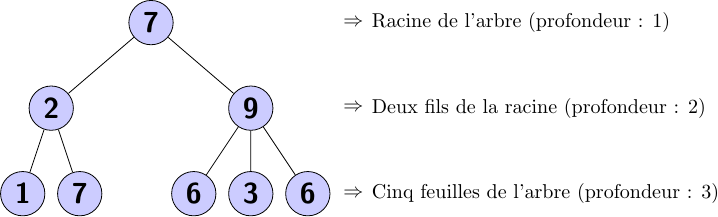
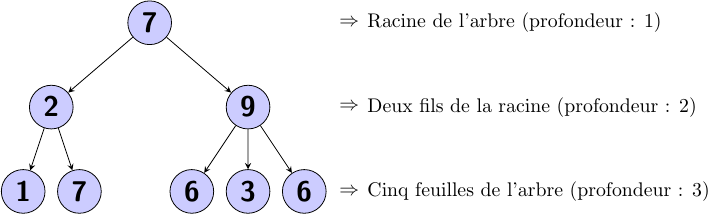
Removed useless files + Removed article about books + Small changes to the tree's example image

diff --git a/src/projets/nandtotetris.html b/src/projets/nandtotetris.html
@@ -175,7 +175,7 @@ table tr:nth-child(2n) {
 
 <a href=""><h1 id="nandtotetris">NandToTetris</h1></a>
 <p>Date du projet : f&#233;vrier 2014 &#224; avril 2014<br />
-<em>Modifi&#233; le : 11/10/2015</em></p>
+<em>Modifi&#233; le : 03/12/2015</em></p>
 <ul id="summary">
 <li><a href="#introduction">Introduction</a></li>
 <li><a href="#quest-ce-que-nandtotetris">Qu'est-ce que NandToTetris ?</a></li>
@@ -193,8 +193,7 @@ table tr:nth-child(2n) {
 <li>un <strong>compilateur</strong> complet pour le langage Jack (le langage de base de l&#8217;ordinateur).</li>
 <li>un <strong>mini-OS</strong> nous permettant d'avoir des appels syst&#232;mes basiques.</li>
 </ul>
-<p>J&#8217;ai r&#233;alis&#233; ce projet &#224; l&#8217;aide du livre <em>The Elements of Computing Systems : Building a Modern Computer from First Principles</em>, vous pouvez retrouver un court avis sur ce livre <a href="/livres.html">ici</a>.</p>
-<p>Ce livre fournit des &#233;mulateurs, et des fichiers de tests pour la cr&#233;ation de ce projet, ainsi que les explications n&#233;cessaires.</p>
+<p>J&#8217;ai r&#233;alis&#233; ce projet &#224; l&#8217;aide du livre <em>The Elements of Computing Systems : Building a Modern Computer from First Principles</em>. Ce livre fournit des &#233;mulateurs, et des fichiers de tests pour la cr&#233;ation de ce projet, ainsi que les explications n&#233;cessaires.</p>
 <h3 id="lordinateur">L'ordinateur</h3>
 <p>L'ordinateur est bas&#233; sur une architecture 16 bits de <a href="https://fr.wikipedia.org/wiki/Architecture_de_von_Neumann">von Neumann</a>, et peut accueillir un clavier et un &#233;cran de 256&#215;512 en noir et blanc.</p>
 <p>Pour la cr&#233;ation de l'ordinateur, on va donc partir de la porte logique <a href="https://fr.wikipedia.org/wiki/Fonction_NON-ET">NAND</a> qui est notre &#233;l&#233;ment de base (elle est int&#233;gr&#233;e directement dans l'&#233;mulateur ce qui nous permet de l'utiliser avec les autres &#233;l&#233;ments sans probl&#232;me). Gr&#226;ce &#224; cette porte logique, on peut en cr&#233;er d'autres comme <a href="https://fr.wikipedia.org/wiki/Fonction_ET">AND</a>, <a href="https://fr.wikipedia.org/wiki/Fonction_OU">OR</a>, <a href="https://fr.wikipedia.org/wiki/Fonction_NON">NOT</a>, etc. et &#224; partir de ces portes on peut construire l&#8217;<a href="https://fr.wikipedia.org/wiki/Unit%C3%A9_arithm%C3%A9tique_et_logique">ALU</a>. Pour la <a href="https://fr.wikipedia.org/wiki/M%C3%A9moire_vive">RAM</a> de l'ordinateur, il faut la construire &#233;tape par &#233;tape et augmenter progressivement en capacit&#233; de stockage. On commence par la construction d'un <a href="https://fr.wikipedia.org/wiki/Bascule_%28circuit_logique%29">flip-flop</a> qui nous permet de r&#233;aliser un <a href="https://fr.wikipedia.org/wiki/Bit">bit</a>, puis un registre et enfin la RAM compl&#232;te. Le <a href="https://fr.wikipedia.org/wiki/Processeur">CPU</a> vient en dernier et ach&#232;ve la cr&#233;ation de notre ordinateur.</p>

diff --git a/src/articles.html b/src/articles.html
@@ -222,10 +222,6 @@ table tr:nth-child(2n) {
 <li><a href="/prog/c/debugger.html">D&#233;bugger ses programmes</a></li>
 </ul></li>
 </ul></li>
-<li><p>Autres :</p>
-<ul>
-<li><a href="/livres.html">Livres</a></li>
-</ul></li>
 </ul>
  
       <!-- ------------ -->

diff --git a/pages/3.Projets/4.NandToTetris/nandtotetris.md b/pages/3.Projets/4.NandToTetris/nandtotetris.md
@@ -3,7 +3,7 @@ NandToTetris
 projets/
 
 Date du projet : février 2014 à avril 2014  
-*Modifié le : 11/10/2015*
+*Modifié le : 03/12/2015*
 
 ## Introduction
 
@@ -19,9 +19,7 @@ Le projet consiste donc à créer :
 - un **compilateur** complet pour le langage Jack (le langage de base de l’ordinateur).
 - un **mini-OS** nous permettant d'avoir des appels systèmes basiques.
 
-J’ai réalisé ce projet à l’aide du livre *The Elements of Computing Systems : Building a Modern Computer from First Principles*, vous pouvez retrouver un court avis sur ce livre [ici](/livres.html).
-
-Ce livre fournit des émulateurs, et des fichiers de tests pour la création de ce projet, ainsi que les explications nécessaires.
+J’ai réalisé ce projet à l’aide du livre *The Elements of Computing Systems : Building a Modern Computer from First Principles*. Ce livre fournit des émulateurs, et des fichiers de tests pour la création de ce projet, ainsi que les explications nécessaires.
 
 ### L'ordinateur
 

diff --git a/pages/2.Articles/articles.md b/pages/2.Articles/articles.md
@@ -45,7 +45,3 @@ La liste des articles publiés :
          - [Apprendre et s'entraîner](/prog/c/apprendre_entrainer.html)
          - [Utiliser des makefiles](/prog/c/makefiles.html)
          - [Débugger ses programmes](/prog/c/debugger.html)
-
-- Autres :
-
-    - [Livres](/livres.html)
